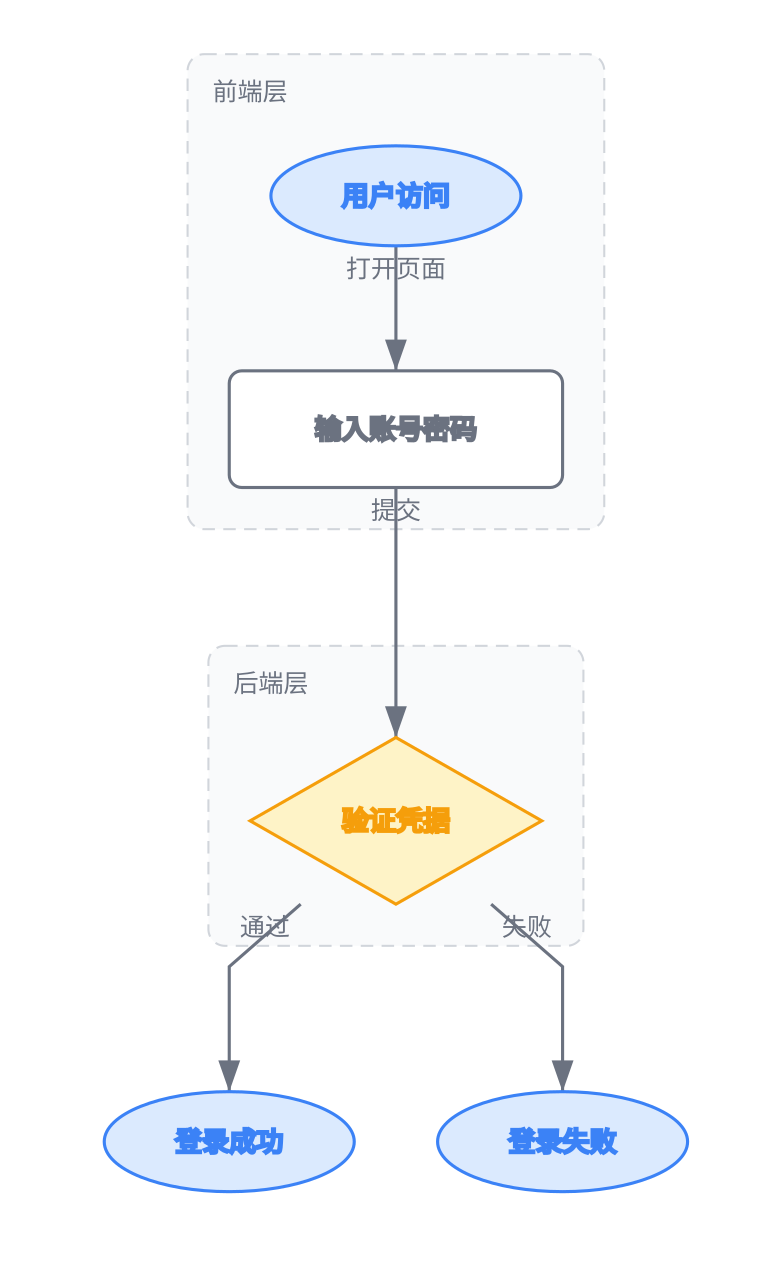
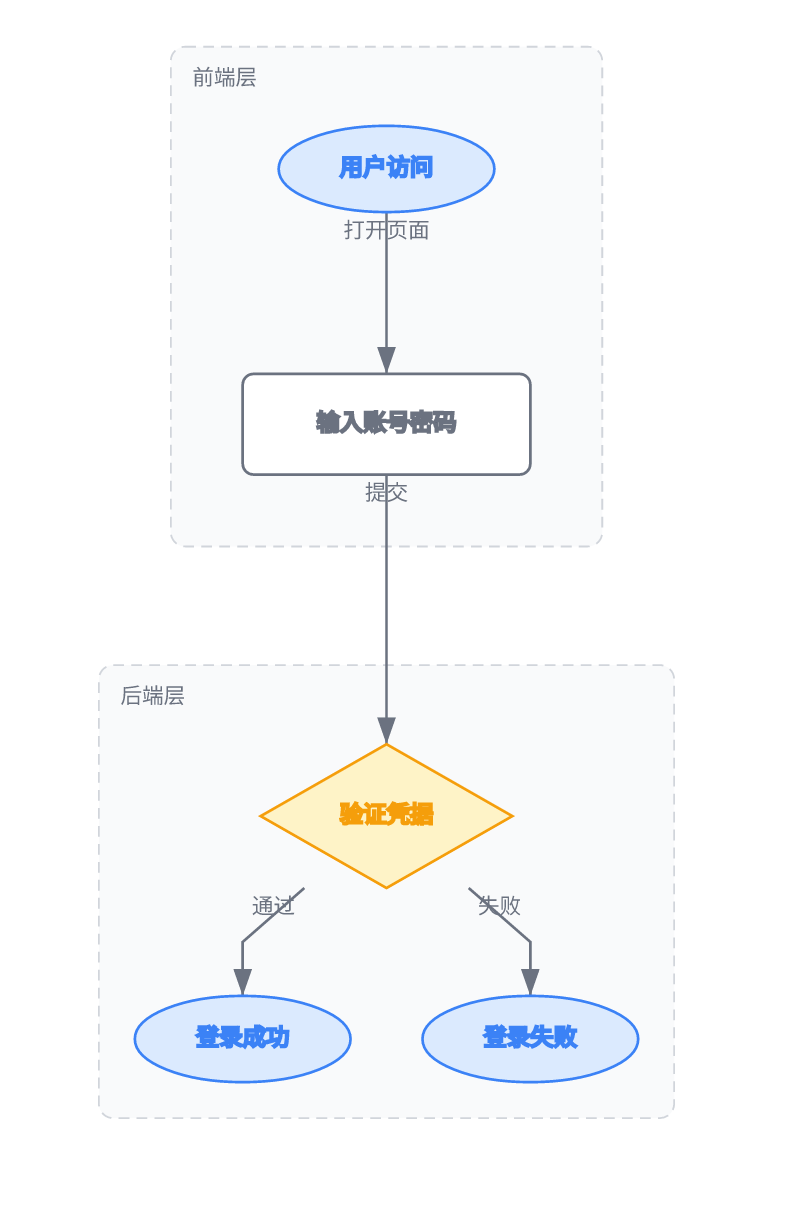
feat: nested-group example + inline comment support
- examples/login-flow.lgdl: 前端层 now nests 认证模块 (showcases nested groups)
- regenerated login-flow.svg/png
- README inline example + cli-guide add-group section updated
- parser: strip inline comments (# outside quotes, preceded by whitespace);
  fixes contains: [a, b] # 注释 being parsed as a plain string
- CHANGELOG: inline comment fix under 0.3.0

diff --git a/packages/core/src/parser.ts b/packages/core/src/parser.ts
@@ -347,6 +347,31 @@ function findTopLevelColon(line: string): number {
  * must stay strings — a node id like `1111` is an identifier, not a number.
  * Other fields parse normally (numbers stay numbers, e.g. attrs.duration).
  */
+/**
+ * Strip an inline comment from a scalar value. A '#' starts a comment only
+ * when it is at the start of the value or preceded by whitespace, and is
+ * not inside quotes — so `contains: [a, b] # 成员` keeps the list, while
+ * `label: "a # b"` keeps the '#'. Whole-line comments are handled earlier.
+ */
+function stripInlineComment(raw: string): string {
+  let inSingle = false;
+  let inDouble = false;
+  for (let i = 0; i < raw.length; i++) {
+    const ch = raw[i];
+    if (ch === "'" && !inDouble) inSingle = !inSingle;
+    else if (ch === '"' && !inSingle) inDouble = !inDouble;
+    else if (
+      ch === '#' &&
+      !inSingle &&
+      !inDouble &&
+      (i === 0 || raw[i - 1] === ' ' || raw[i - 1] === '\t')
+    ) {
+      return raw.slice(0, i);
+    }
+  }
+  return raw;
+}
+
 function parseFieldValue(key: string, raw: string): unknown {
   if (key === 'id' || key === 'from' || key === 'to') {
     const v = parseScalar(raw);
@@ -356,7 +381,7 @@ function parseFieldValue(key: string, raw: string): unknown {
 }
 
 function parseScalar(raw: string): unknown {
-  const value = raw.trim();
+  const value = stripInlineComment(raw).trim();
   if (value === '') return undefined;
   if (value === 'true') return true;
   if (value === 'false') return false;

diff --git a/packages/core/src/parser.test.ts b/packages/core/src/parser.test.ts
@@ -249,3 +249,36 @@ groups:
   assert.equal(result.valid, false);
   assert.ok(result.issues.some((i) => i.message.includes('belongs to both')));
 });
+
+test('inline comments are stripped from values', () => {
+  const result = parseLgdl(`type: flowchart
+nodes:
+  - id: a
+  - id: b
+groups:
+  - id: g1
+    label: 前端层 # 说明文字
+    contains: [a, b]   # 成员列表
+edges:
+  - from: a
+    to: b
+    label: 下一步 # 边注释
+`);
+  assert.equal(result.valid, true, result.issues.map((i) => i.message).join('; '));
+  assert.equal(result.document.groups[0].label, '前端层');
+  assert.deepEqual(result.document.groups[0].contains, ['a', 'b']);
+  assert.equal(result.document.edges[0].label, '下一步');
+});
+
+test('hash inside quotes is preserved, hash without leading space is kept', () => {
+  const result = parseLgdl(`type: flowchart
+nodes:
+  - id: a
+    label: "say # hi"
+  - id: b
+    label: url#fragment
+`);
+  assert.equal(result.valid, true);
+  assert.equal(result.document.nodes[0].label, 'say # hi');
+  assert.equal(result.document.nodes[1].label, 'url#fragment');
+});

diff --git a/docs/cli-guide.md b/docs/cli-guide.md
@@ -182,10 +182,16 @@ lgdl remove-edge --file my-diagram.lgdl --from verify --to fail
 #### `lgdl add-group --file <file> --id <id> [--label <label>] [--contains <ids>]`
 
 ```bash
-# 创建分组（泳道/分区），可指定初始成员
+# 创建分组（泳道/分区），可指定初始成员（node id 或嵌套 group id）
 lgdl add-group --file my-diagram.lgdl --id frontend --label "前端层" --contains start,login
 # ✓ added group "frontend" (前端层) with 2 member(s)
+
+# 嵌套分组：把已有分组作为成员
+lgdl add-group --file my-diagram.lgdl --id frontend --label "前端层" --contains auth
+# ✓ added group "frontend" (前端层) with 1 member(s)
 ```
+
+> `--contains` 接受 node id 和 group id（嵌套）。一个 node/group 只能属于一个分组；不能直接或间接包含自身。
 
 #### `lgdl remove-group --file <file> --id <id>`
 

diff --git a/CHANGELOG.md b/CHANGELOG.md
@@ -7,6 +7,7 @@
 - 🆕 group 支持嵌套：`contains` 可引用 node id **或 group id**（订单核心包住支付网关）
 - 校验新增：group id 唯一性、未知成员（node/group）、节点/group 不能同属两个组、包含环检测（直接/间接自包含都是 error）
 - `add-group --contains` 接受 group id；`remove-group` 自动从父组 contains 摘除
+- 🐛 解析器支持**行内注释**（`contains: [a, b] # 成员`），引号内的 `#` 保留
 - ASCII 渲染器完整支持 group：盒子边框、边框标题、嵌套盒子（外层包内层）、兄弟 group 自动分配到独立列带（不重叠）
 - 跨列连接线：L 形分支 + 箭头穿过 group 边框（`└───┐` / `└───▼`），边框在连接线处断开让位
 - SVG 渲染器同步支持嵌套 group（外层虚线框包住内层）

diff --git a/README.md b/README.md
@@ -105,9 +105,12 @@ edges:
     label: 失败
 
 groups:
+  - id: auth
+    label: 认证模块
+    contains: [login]
   - id: frontend
     label: 前端层
-    contains: [start, login]
+    contains: [start, auth]    # 嵌套分组：前端层包含认证模块
   - id: backend
     label: 后端层
     contains: [verify]
